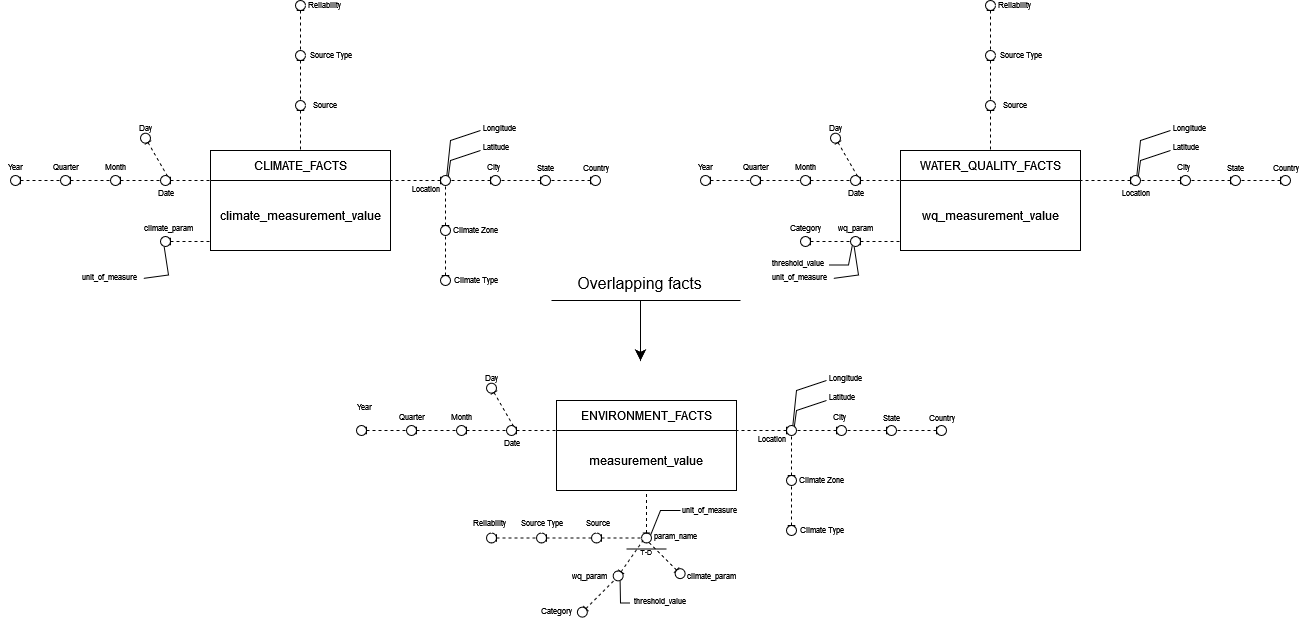
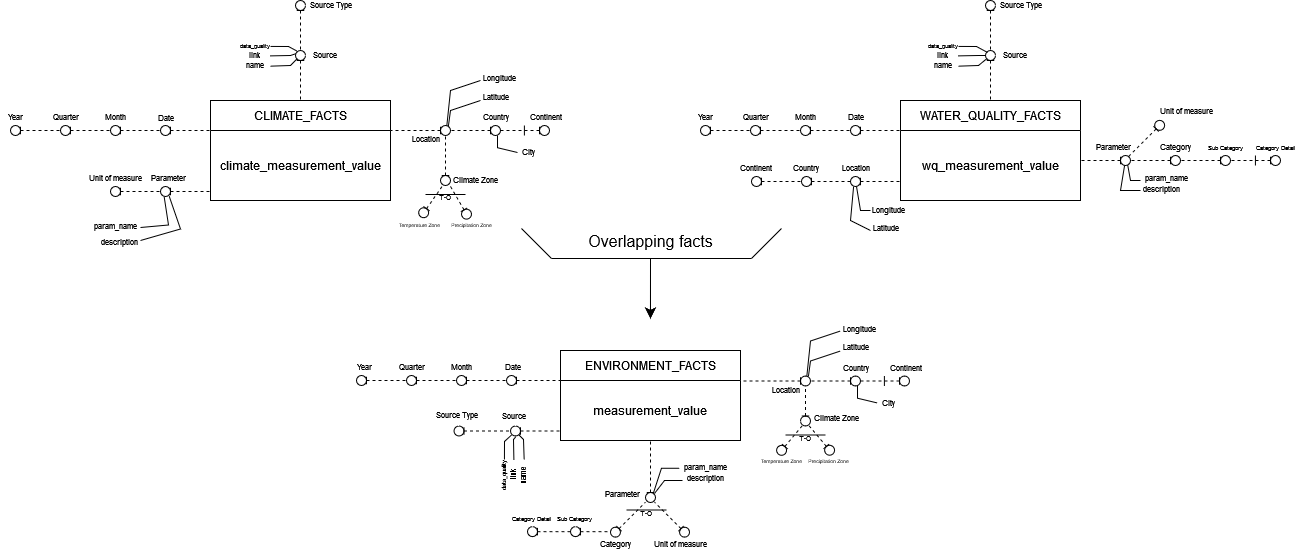
Update assets, add new dataset on Continent and version 1 is complete

diff --git a/ETL_tools/extractionAPI.py b/ETL_tools/extractionAPI.py
@@ -51,27 +51,18 @@ def extractClimateExtraData():
 	GEI_AC_7 = read_excel_file(GEIPath + 'Air and Climate/ODS_Consumption.xlsx', 0, 192, None, "A", 0, False, 0)
 	GEI_AC_8 = read_excel_file(GEIPath + 'Air and Climate/SO2_emissions.xlsx', 0, 153, None, "A", 0, False, 0)
 
-	KGC_1 = read_csv_file(climatePath + '1.3_Köppen_Geiger_Classification/Koeppen-Geiger-ASCII.txt', "\s+", 0, None, None)
-
-	KGC_2 = read_csv_file(climatePath + '1.3_Köppen_Geiger_Classification/TableDefinitions.csv', ",", 0, None, None)
-
-	LAL = read_csv_file(climatePath + '1.4_Latitude_and_Longitude\world_country_and_usa_states_latitude_and_longitude_values.csv', ",", 0, None, ['latitude','longitude','country','usa_state_latitude','usa_state_longitude','usa_state'])
-	LAL.rename(columns={'usa_state_latitude': 'latitude', 'usa_state_longitude': 'longitude', 'usa_state': 'country'}, inplace=True)
-	LAL = pd.concat([LAL.iloc[:,:3], LAL.iloc[:,3:]], axis=0).reset_index(drop=True)
-	LAL.dropna(axis=0, how='all', inplace=True)
-
 	sourceData = [
-			{ "nameDF" : "CID", "source_name" : "Kaggle_Climate Insights Dataset", "source_link" : "https://www.kaggle.com/datasets/goyaladi/climate-insights-dataset", "source_data_quality" : "Not provided"},
+			{ "nameDF" : "CID", "source_name" : "Kaggle_Climate Insights Dataset", "source_link" : "https://www.kaggle.com/datasets/goyaladi/climate-insights-dataset", "source_type" : "Private", "source_data_quality" : "Not provided"},
 
-			{ "nameDF" : "CH4_N2O_Emissions", "source_name" : GEI_AC_2.loc[1, 'Sources:'], "source_link" : GEI_AC_2.loc[2, 'Sources:'], "source_data_quality" : GEI_AC_2.loc[13, 'Sources:']},
-			{ "nameDF" : "CO2_Emissions", "source_name" : GEI_AC_2.loc[1, 'Sources:'], "source_link" : GEI_AC_2.loc[2, 'Sources:'], "source_data_quality" : GEI_AC_2.loc[13, 'Sources:']},
-			{ "nameDF" : "GHG_by_Sector_Perc", "source_name" : GEI_AC_3.loc[1, 'Sources:'], "source_link" : GEI_AC_3.loc[2, 'Sources:'], "source_data_quality" : GEI_AC_3.loc[16, 'Sources:']},
-			{ "nameDF" : "GHG_Emissions_by_Sector", "source_name" : GEI_AC_4.loc[1, 'Sources:'], "source_link" : GEI_AC_4.loc[2, 'Sources:'], "source_data_quality" : GEI_AC_4.loc[16, 'Sources:']},
-			{ "nameDF" : "GHG_Emissions", "source_name" : GEI_AC_5.loc[1, 'Sources:'], "source_link" : GEI_AC_5.loc[2, 'Sources:'], "source_data_quality" : GEI_AC_5.loc[24, 'Sources:']},
-			{ "nameDF" : "NOx_Emissions", "source_name" : GEI_AC_6.loc[1, 'Sources:'], "source_link" : GEI_AC_6.loc[2, 'Sources:'], "source_data_quality" : GEI_AC_6.loc[28, 'Sources:']},
-			{ "nameDF" : "ODS_Consumption_2002", "source_name" : GEI_AC_7.loc[1, 'Sources:'], "source_link" : GEI_AC_7.loc[2, 'Sources:'], "source_data_quality" : GEI_AC_7.loc[32, 'Sources:']},
-			{ "nameDF" : "ODS_Consumption_2013", "source_name" : GEI_AC_7.loc[1, 'Sources:'], "source_link" : GEI_AC_7.loc[2, 'Sources:'], "source_data_quality" : GEI_AC_7.loc[32, 'Sources:']},
-			{ "nameDF" : "SO2_emissions", "source_name" : GEI_AC_8.loc[1, 'Sources:'], "source_link" : GEI_AC_8.loc[2, 'Sources:'], "source_data_quality" : GEI_AC_8.loc[25, 'Sources:']}
+			{ "nameDF" : "CH4_N2O_Emissions", "source_name" : GEI_AC_2.loc[1, 'Sources:'], "source_link" : GEI_AC_2.loc[2, 'Sources:'], "source_type" : "Governmental", "source_data_quality" : GEI_AC_2.loc[13, 'Sources:']},
+			{ "nameDF" : "CO2_Emissions", "source_name" : GEI_AC_2.loc[1, 'Sources:'], "source_link" : GEI_AC_2.loc[2, 'Sources:'], "source_type" : "Governmental", "source_data_quality" : GEI_AC_2.loc[13, 'Sources:']},
+			{ "nameDF" : "GHG_by_Sector_Perc", "source_name" : GEI_AC_3.loc[1, 'Sources:'], "source_link" : GEI_AC_3.loc[2, 'Sources:'], "source_type" : "Governmental", "source_data_quality" : GEI_AC_3.loc[16, 'Sources:']},
+			{ "nameDF" : "GHG_Emissions_by_Sector", "source_name" : GEI_AC_4.loc[1, 'Sources:'], "source_link" : GEI_AC_4.loc[2, 'Sources:'], "source_type" : "Governmental", "source_data_quality" : GEI_AC_4.loc[16, 'Sources:']},
+			{ "nameDF" : "GHG_Emissions", "source_name" : GEI_AC_5.loc[1, 'Sources:'], "source_link" : GEI_AC_5.loc[2, 'Sources:'], "source_type" : "Governmental", "source_data_quality" : GEI_AC_5.loc[24, 'Sources:']},
+			{ "nameDF" : "NOx_Emissions", "source_name" : GEI_AC_6.loc[1, 'Sources:'], "source_link" : GEI_AC_6.loc[2, 'Sources:'], "source_type" : "Governmental", "source_data_quality" : GEI_AC_6.loc[28, 'Sources:']},
+			{ "nameDF" : "ODS_Consumption_2002", "source_name" : GEI_AC_7.loc[1, 'Sources:'], "source_link" : GEI_AC_7.loc[2, 'Sources:'], "source_type" : "Governmental", "source_data_quality" : GEI_AC_7.loc[32, 'Sources:']},
+			{ "nameDF" : "ODS_Consumption_2013", "source_name" : GEI_AC_7.loc[1, 'Sources:'], "source_link" : GEI_AC_7.loc[2, 'Sources:'], "source_type" : "Governmental", "source_data_quality" : GEI_AC_7.loc[32, 'Sources:']},
+			{ "nameDF" : "SO2_emissions", "source_name" : GEI_AC_8.loc[1, 'Sources:'], "source_link" : GEI_AC_8.loc[2, 'Sources:'], "source_type" : "Governmental", "source_data_quality" : GEI_AC_8.loc[25, 'Sources:']}
 		]
 	
 	parameterData = {
@@ -84,9 +75,29 @@ def extractClimateExtraData():
 		"SO2 emissions" : GEI_AC_8.loc[15, 'Sources:'], 
 	}
 
-	locationData = [KGC_1,KGC_2,LAL]
+	return sourceData, parameterData
 
-	return sourceData, parameterData, locationData
+
+def extractExtraData():
+
+	basePath = os.getcwd()
+	climatePath = basePath + '/datasets/Climate-Dataset/'
+
+	KGC_1 = read_csv_file(climatePath + '1.3_Köppen_Geiger_Classification/Koeppen-Geiger-ASCII.txt', "\s+", 0, None, None)
+	KGC_2 = read_csv_file(climatePath + '1.3_Köppen_Geiger_Classification/TableDefinitions.csv', ",", 0, None, None)
+
+	extraDataPath = basePath + '/datasets/ExtraData-Dataset/'
+
+	LAL = read_csv_file(extraDataPath + '1.4_Latitude_and_Longitude\world_country_and_usa_states_latitude_and_longitude_values.csv', ",", 0, None, ['latitude','longitude','country','usa_state_latitude','usa_state_longitude','usa_state'])
+	LAL.rename(columns={'usa_state_latitude': 'latitude', 'usa_state_longitude': 'longitude', 'usa_state': 'country'}, inplace=True)
+	LAL = pd.concat([LAL.iloc[:,:3], LAL.iloc[:,3:]], axis=0).reset_index(drop=True)
+	LAL.dropna(axis=0, how='all', inplace=True)
+
+	CBC = read_csv_file(extraDataPath + '1.5_Countries_by_Continent\Countries_by_continents.csv', ",", 0, None, None)
+
+	locationData = [KGC_1,KGC_2,LAL,CBC]
+
+	return locationData
 
 
 def extractWaterData():

diff --git a/ETL_tools/loadingClimateDataAPI.py b/ETL_tools/loadingClimateDataAPI.py
@@ -116,9 +116,6 @@ def loadDataFrame(df, connection, lookupTables, nnnColumns, source_id):
         result = connection.execute(text('SELECT COUNT(*) FROM "Environment_Fact";'))
         count = result.scalar()
         print(f"The 'Environment_Fact' table correctly populated : {count} rows \n ")
-        
-
-        #numericalDf.to_sql("Location_Dim", connection, schema='ClimateWaterDataWarehouse', if_exists='replace', index=False)
 
     except Exception as e:
         print(f"An error occurred: {e}")
@@ -137,17 +134,19 @@ def loadSourceData(connection, sourceData):
             nameDF = source['nameDF']
             source_name = source['source_name']
             source_link = source['source_link']
+            source_type = source['source_type']
             source_data_quality = source['source_data_quality']
 
             insert_source = text('''
-                                INSERT INTO "Source_Dim" (source_name, source_link, source_data_quality) 
-                                VALUES (:source_name, :source_link, :source_data_quality)
+                                INSERT INTO "Source_Dim" (source_name, source_link, source_type, source_data_quality) 
+                                VALUES (:source_name, :source_link, :source_type, :source_data_quality)
                                 ON CONFLICT (source_name) DO NOTHING
                                 RETURNING source_id;
                                 ''')
             new_insert = connection.execute(insert_source, {
                     'source_name': source_name,
                     'source_link': source_link,
+                    'source_type': source_type,
                     'source_data_quality': source_data_quality
                 })
             
@@ -188,7 +187,7 @@ def loadExtraData(connection, paramData, locationData):
                 'param_name': param,
                 'description': paramData[param]
             })
-        print("The 'Param_Dim' description column correctly populated \n")
+        print("The 'Param_Dim' description column correctly populated")
 
         ### Location_Dim handler
 
@@ -223,8 +222,23 @@ def loadExtraData(connection, paramData, locationData):
                     'temperature_zone': descriptions.get('Temperature'),
                 })
 
+        print("The 'Location_Dim' latitude, longitude and zones correctly populated")
 
-        print("The 'Location_Dim' latitude, longitude and zones correctly populated \n")
+        for index, row in locationData[3].iterrows():
+            country = row['Country']
+            continent = row['Continent']
+
+            update_location = text("""
+                UPDATE "Location_Dim"
+                SET continent = :continent
+                WHERE country = :country;
+            """)
+            connection.execute(update_location, {
+                'country': country,
+                'continent': continent,
+            })
+
+        print("The 'Location_Dim' continent correctly populated")
 
 
     except Exception as e:

diff --git a/main.py b/main.py
@@ -23,7 +23,8 @@ lookupTables = getLookupTable(dbConnection)
 climateDF = extractClimateData()
 waterDF = extractWaterData() 
 
-sourceData, parameterData, locationData = extractClimateExtraData()
+sourceData, parameterData = extractClimateExtraData()
+locationData = extractExtraData()
 lookupTables.append(loadSourceData(dbConnection, sourceData))
 
 ### ETL ###
@@ -38,4 +39,4 @@ GGI_dataset_ETL(waterDF, 0.8, dbConnection, lookUpCodeTable)
 
 
 loadExtraData(dbConnection, parameterData, locationData)
-print (f"### Extra Data correctly loaded into ClimateWaterDataWarehouse ###\n")
+print (f"\n ### Extra Data correctly loaded into ClimateWaterDataWarehouse ###\n")

diff --git a/datasetOrchestrator.py b/datasetOrchestrator.py
@@ -109,7 +109,7 @@ def GGI_dataset_ETL(dfGGI, threshold, dbConnection, lookUpCodeTable):
 	#print(f"\n Dataframe after DuplicatesRemoval : {dfName}\n",dfCleaned)
 
 	dfCleaned = handleWaterMissingValuesRemoval(dfCleaned, threshold, ['Station Number', 'Date','Code Param','Code Analysis','Value'])
-	print(f"\n Dataframe after MissingValuesRemoval : {dfName}\n",dfCleaned)
+	#print(f"\n Dataframe after MissingValuesRemoval : {dfName}\n",dfCleaned)
 
 	### EXPLORATION ###
 

diff --git a/utils/dbSetUpHandler.py b/utils/dbSetUpHandler.py
@@ -26,6 +26,7 @@ def setUpDB(connection):
 									location_id SERIAL PRIMARY KEY,
 									country VARCHAR(255) NOT NULL,
 									city VARCHAR(255),
+						  			continent VARCHAR(255),
 									latitude VARCHAR(255),
 									longitude VARCHAR(255),
 						  			climate_zone VARCHAR(255),
